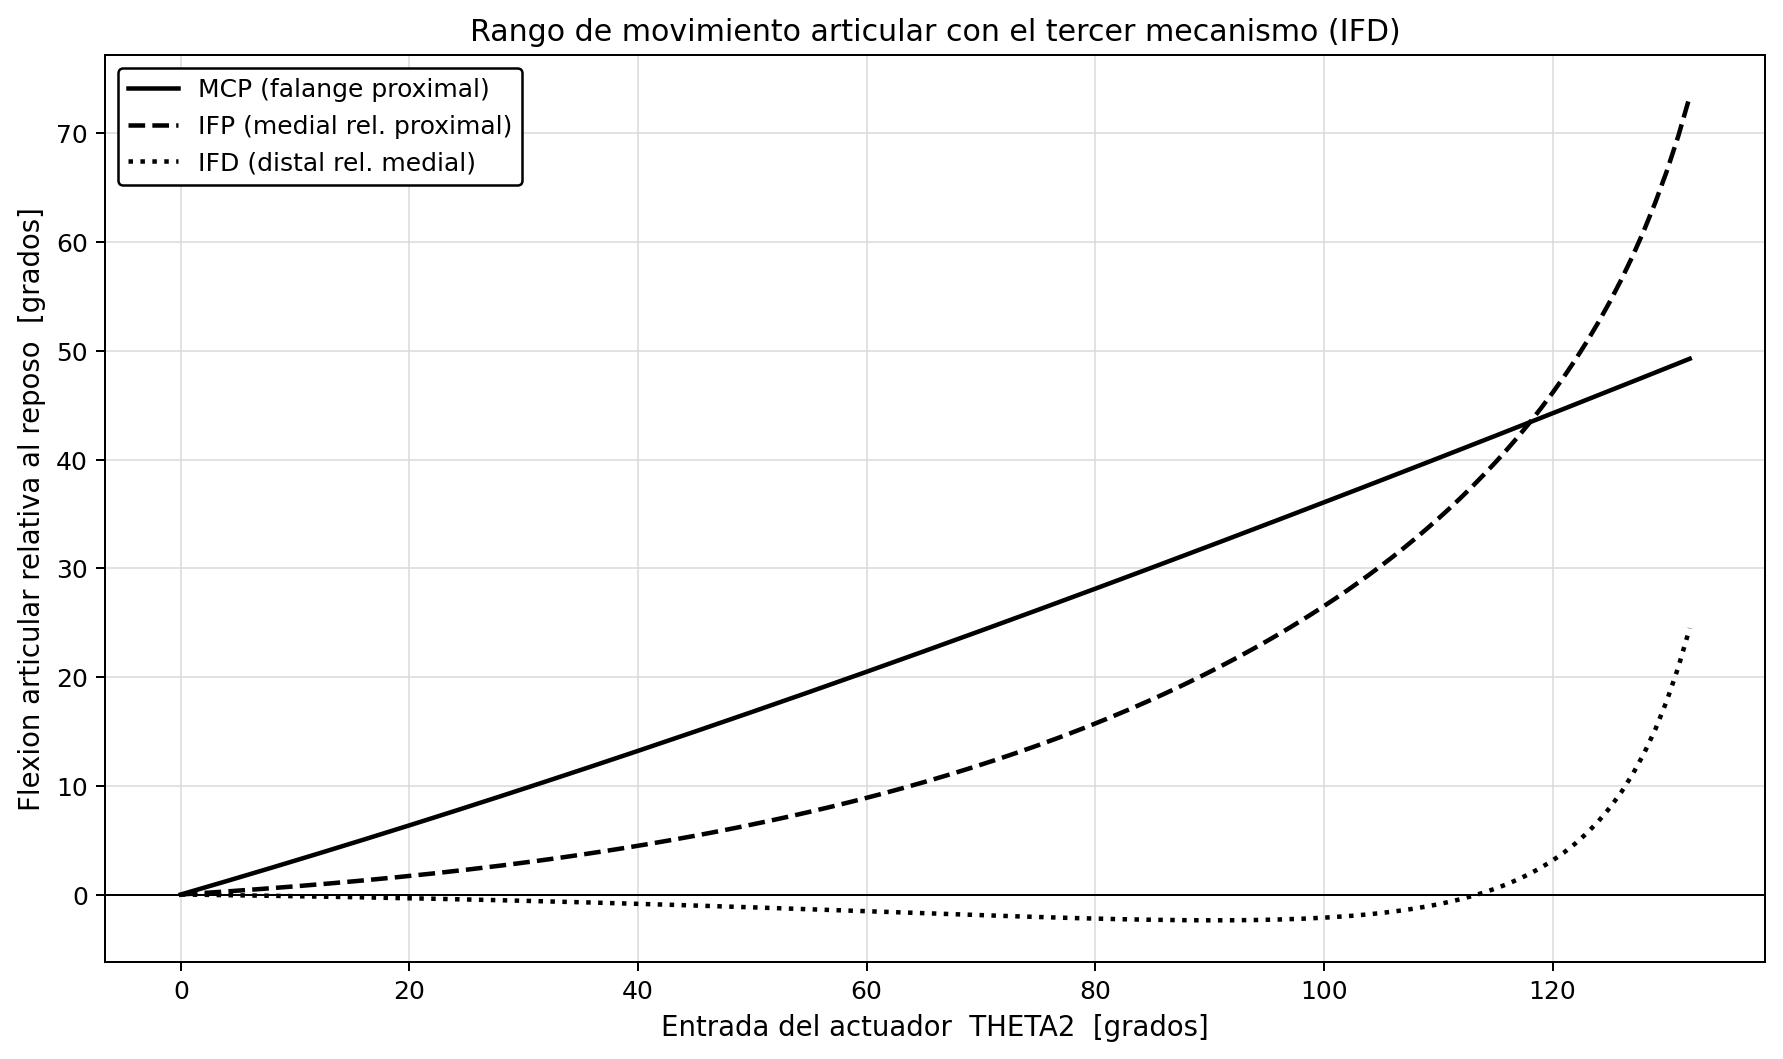
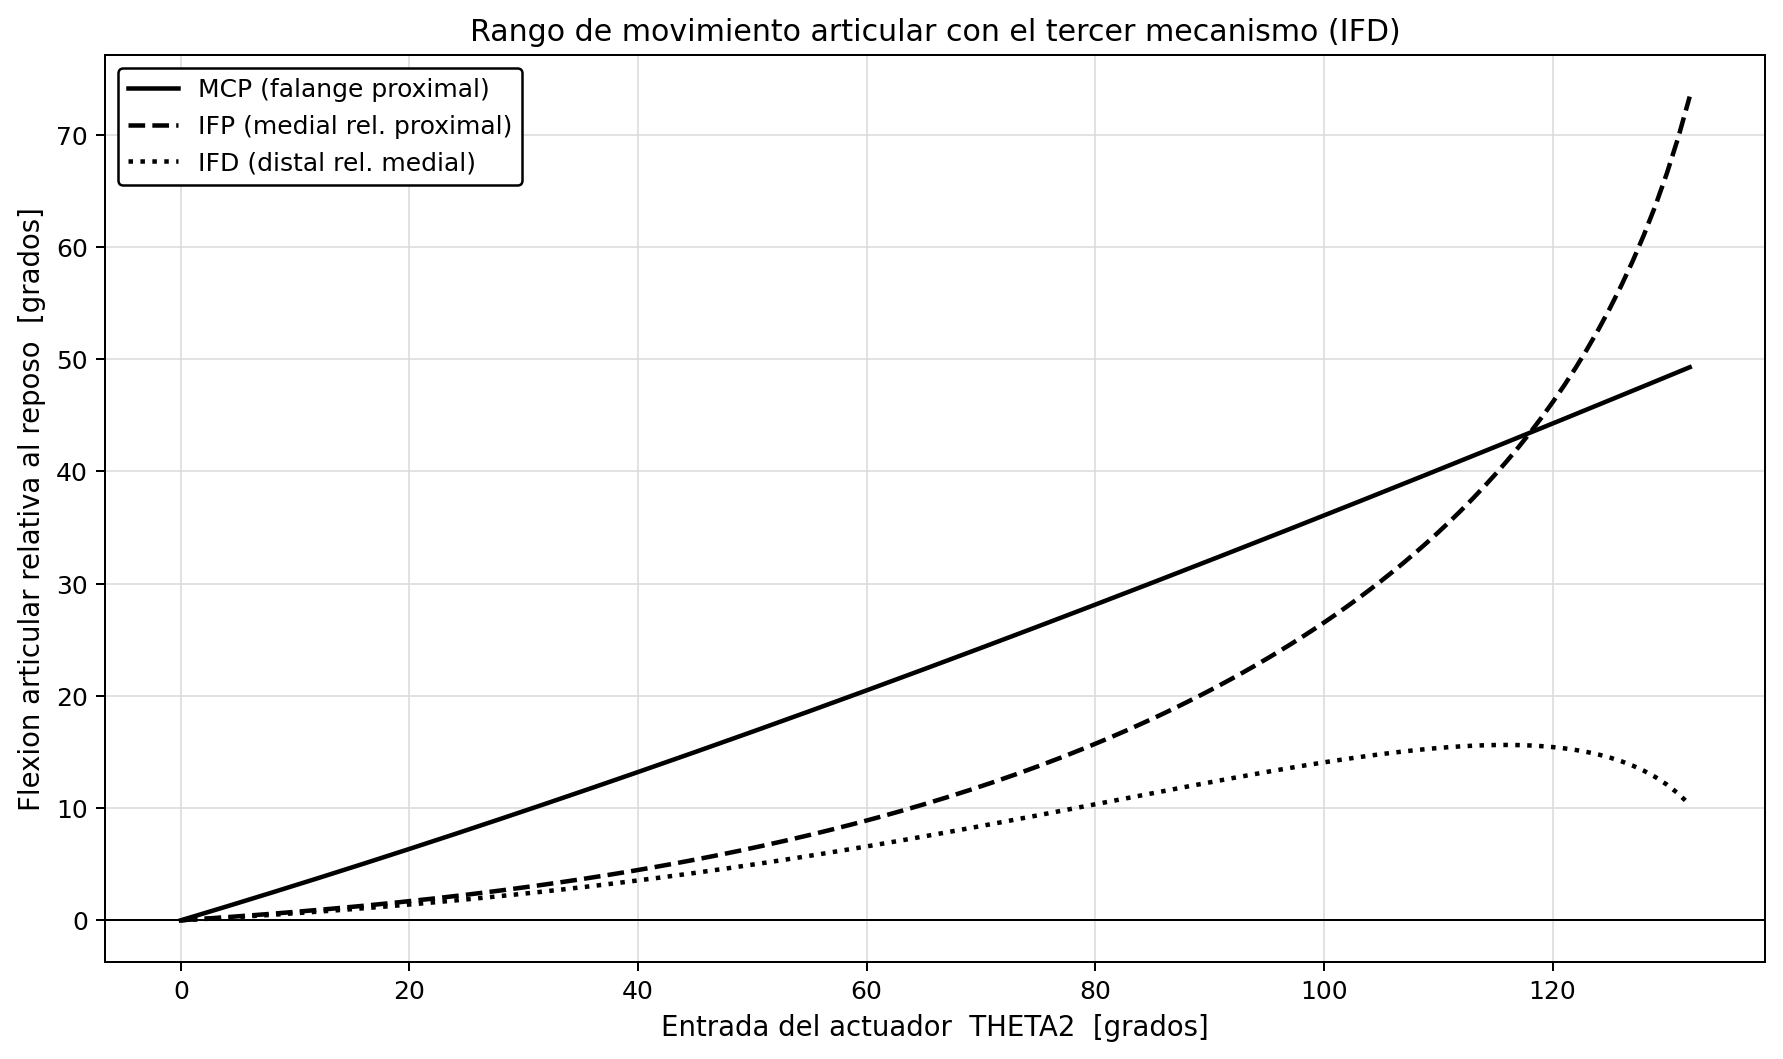
Tercer mecanismo IFD: montaje DORSAL (no palmar) para no chocar con la palma
- back3=-12, up3=2, rama D3=sols[1]: todo el hardware (Pa, L9, L10, D3)
  va por el dorso, mismo lado que mecanismos 1 y 2
- La DIP sigue FLEXIONANDO hacia la palma (0deg->15.62deg gradual, monotona)
- Holgura dorsal con huesos verificada; sin colision con la palma al cerrar
- Sincronizado .m de validacion con la config dorsal del modulo Python
- 133/133 poses ensamblan; salto maximo IFD 0.98deg (movimiento suave)

diff --git a/cinematica_tercer_mecanismo.py b/cinematica_tercer_mecanismo.py
@@ -49,17 +49,22 @@ THETAauxfm = 51.39
 THETAauxfd = 38.78
 reng = 2
 
-# --- Parametros del tercer mecanismo de 4 barras ---
+# --- Parametros del tercer mecanismo de 4 barras (montado SOBRE el dedo) ---
 # El 4 barras usa la PROPIA falange medial como manivela de entrada y un punto
-# fijo Pa (soporte S3) sobre la falange proximal como pivote del acoplador.
-# Para que la flexion de la IFP induzca FLEXION (hacia abajo) de la IFD -como un
-# dedo real-, el acoplador corre por el lado PALMAR (igual que el tendon flexor
-# profundo). Pa se define respecto a IFP con:
-#   back3 : retroceso a lo largo de la falange proximal (hacia MCF), mm
-#   up3   : separacion PALMAR (perpendicular a la falange proximal), mm
-# Valores calibrados para movimiento DIP gradual y de flexion en todo el rango.
-back3 = 2.0
-up3 = 12.0
+# fijo Pa (soporte S3) RIGIDO a la falange proximal como pivote del acoplador.
+# TODO el mecanismo (Pa, acoplador L9, balancin L10, punto D3) va por el lado
+# DORSAL del dedo -el mismo lado que el resto del exoesqueleto- para NO chocar
+# con la palma de la mano al cerrar el puno. Aun asi, la geometria del 4 barras
+# hace que al flexionar la IFP la falange distal FLEXIONE (se curva hacia la
+# palma) de forma GRADUAL, como un dedo real.
+# Pa se define respecto a IFP con:
+#   back3 : desplazamiento a lo largo de la falange proximal. NEGATIVO = el
+#           soporte dorsal se extiende HACIA ADELANTE, pasando la IFP (mm).
+#   up3   : standoff DORSAL (perpendicular a la falange proximal), perfil bajo (mm).
+# Valores calibrados para flexion DIP gradual (~15 deg pico) manteniendo holgura
+# dorsal con los huesos (Pa-falange medial ~5 mm) y sin colision con la palma.
+back3 = -12.0
+up3 = 2.0
 
 # Asignacion a variables de las ecuaciones (igual que el .m)
 r4 = Link1
@@ -245,12 +250,13 @@ def tercer_mecanismo(estado, gamma_bracket=None, dorsal_sign=None):
       - Tierra:     Pa -> IFP  (bracket S3 rigido sobre la falange PROXIMAL)
       - Manivela:   IFP -> IFD (la PROPIA falange medial, fm = 26 mm)
       - Balancin:   IFD -> D3  (Link10 = 35 mm), rigido con la falange distal
-      - Acoplador:  D3 -> Pa   (Link9 = 25 mm), por el lado PALMAR
+      - Acoplador:  D3 -> Pa   (Link9 = 25 mm), por el lado DORSAL
 
-    Como la falange medial gira respecto a la proximal al flexionar la IFP, el
-    balancin gira y la falange distal FLEXIONA (se curva hacia abajo) de forma
-    GRADUAL, igual que un dedo real. El acoplador corre por el lado palmar (como
-    el tendon flexor profundo); de ir por el dorso, la IFD se extenderia.
+    TODO el mecanismo va montado por el lado DORSAL del dedo (el mismo lado que
+    el resto del exoesqueleto), para NO chocar con la palma al cerrar la mano.
+    Aun asi, la geometria del 4 barras hace que al flexionar la IFP la falange
+    distal FLEXIONE (se curva hacia la palma) de forma GRADUAL, igual que un
+    dedo real.
     `gamma_bracket` calibra el offset del soporte para conservar la flexion
     natural inicial; `dorsal_sign` fija de forma CONSISTENTE el lado del montaje.
     """
@@ -262,27 +268,28 @@ def tercer_mecanismo(estado, gamma_bracket=None, dorsal_sign=None):
     prox_dir = np.array([np.cos(thetafp), np.sin(thetafp)])
     prox_norm = np.array([-prox_dir[1], prox_dir[0]])
 
-    # Signo dorsal: se decide UNA sola vez (calibracion) usando el lado de P3,
-    # y luego se mantiene fijo.
+    # Signo dorsal: se decide UNA sola vez (calibracion) usando el lado de P3
+    # (el resto del exoesqueleto va por el dorso) y luego se mantiene fijo.
     if dorsal_sign is None:
         dorsal_sign = 1.0 if np.dot(estado["P3"] - IFP, prox_norm) >= 0 else -1.0
 
-    # El acoplador del tercer mecanismo corre por el lado PALMAR (opuesto al
-    # dorso), igual que el tendon flexor profundo, de modo que al flexionar la
-    # IFP la falange distal FLEXIONA (se curva hacia abajo) en vez de extenderse.
-    palmar_norm = -dorsal_sign * prox_norm
+    # TODO el tercer mecanismo va por el lado DORSAL (mismo lado que P3 y el
+    # resto del exoesqueleto), para NO chocar con la palma al cerrar la mano.
+    dorsal_norm = dorsal_sign * prox_norm
 
-    # Anclaje de la manivela/acoplador FIJO a la falange proximal (soporte S3):
-    # retroceso back3 hacia MCF + separacion palmar up3.
-    Pa = IFP - back3 * prox_dir + up3 * palmar_norm
+    # Anclaje del acoplador FIJO a la falange proximal mediante el soporte S3.
+    # back3 negativo => el soporte se extiende hacia ADELANTE pasando la IFP;
+    # up3 => standoff DORSAL de perfil bajo.
+    Pa = IFP - back3 * prox_dir + up3 * dorsal_norm
 
     sols = _circle_intersections(Pa, Link9, IFD, Link10)
     if sols is None:
         return None
 
-    # Seleccion deterministica y continua de la rama (lado +perp de la recta
-    # Pa->IFD). Esta rama produce el movimiento de FLEXION distal gradual.
-    D3 = sols[0]
+    # Rama del 4 barras (interseccion -perp). Con el anclaje dorsal adelantado,
+    # esta rama coloca D3 por el DORSO de la falange distal y produce FLEXION
+    # distal GRADUAL al cerrarse el dedo.
+    D3 = sols[1]
 
     ang_rocker = np.arctan2(D3[1] - IFD[1], D3[0] - IFD[0])  # rad
 

diff --git a/validacion_cinematica_DIP.m b/validacion_cinematica_DIP.m
@@ -190,15 +190,20 @@ P.THETAauxfm = 51.39;
 P.THETAauxfd = 38.78;
 P.reng = 2;
 
-% --- Tercer mecanismo (montado SOBRE el dedo) ---
+% --- Tercer mecanismo (montado SOBRE el dedo, lado DORSAL) ---
 % Anclaje Pa de la manivela/acoplador, fijo a la falange proximal (soporte S3).
-% El acoplador corre por el lado PALMAR (como el tendon flexor profundo) para
-% que la flexion de la IFP induzca FLEXION (hacia abajo) de la IFD:
-%   back3 : retroceso a lo largo de la falange proximal (hacia MCF), mm
-%   up3   : separacion PALMAR (perpendicular a la falange proximal), mm
-% Valores calibrados para movimiento DIP gradual y de flexion en todo el rango.
-P.back3 = 2.0;
-P.up3   = 12.0;
+% TODO el mecanismo (Pa, acoplador L9, balancin L10, D3) va por el lado DORSAL
+% del dedo -el mismo lado que el resto del exoesqueleto- para NO chocar con la
+% palma al cerrar el puno. Aun asi, la geometria del 4 barras hace que al
+% flexionar la IFP la falange distal FLEXIONE (se curva hacia la palma) de
+% forma GRADUAL, como un dedo real.
+%   back3 : desplazamiento a lo largo de la falange proximal; NEGATIVO = el
+%           soporte dorsal se extiende HACIA ADELANTE, pasando la IFP (mm)
+%   up3   : standoff DORSAL (perpendicular a la falange proximal), perfil bajo (mm)
+% Valores calibrados para flexion DIP gradual (~15 deg pico) manteniendo holgura
+% dorsal con los huesos y sin colision con la palma.
+P.back3 = -12.0;
+P.up3   = 2.0;
 
 % Variables derivadas (igual que en el .m original)
 P.r4 = P.Link1;
@@ -357,15 +362,16 @@ end
 
 
 function tm = tercer_mecanismo(est, P, gamma_bracket, dorsal_sign)
-% Resuelve el tercer mecanismo de 4 barras (montado SOBRE el dedo):
+% Resuelve el tercer mecanismo de 4 barras (montado SOBRE el dedo, DORSAL):
 %   Tierra:    Pa -> IFP  (bracket S3 rigido sobre la falange PROXIMAL)
 %   Manivela:  IFP -> IFD (la PROPIA falange medial, fm = 26 mm)
 %   Balancin:  IFD -> D3   (Link10 = 35 mm), rigido con la falange distal
-%   Acoplador: D3  -> Pa   (Link9 = 25 mm), por el lado PALMAR
+%   Acoplador: D3  -> Pa   (Link9 = 25 mm), por el lado DORSAL
 %
-% El acoplador corre por el lado PALMAR (igual que el tendon flexor profundo),
-% de modo que al flexionar la IFP la falange distal FLEXIONA (se curva hacia
-% abajo) de forma GRADUAL, como un dedo real; de ir por el dorso se extenderia.
+% TODO el mecanismo va por el lado DORSAL del dedo (el mismo lado que el resto
+% del exoesqueleto), para NO chocar con la palma al cerrar la mano. Aun asi, la
+% geometria del 4 barras hace que al flexionar la IFP la falange distal
+% FLEXIONE (se curva hacia la palma) de forma GRADUAL, como un dedo real.
 %
 % Si gamma_bracket / dorsal_sign vienen vacios, se calibran en esta pose y se
 % devuelven para reutilizarlos en TODO el recorrido (evita saltos por re-elegir
@@ -391,23 +397,24 @@ if isempty(dorsal_sign)
     tm.dorsal_sign = dorsal_sign;
 end
 
-% El acoplador corre por el lado PALMAR (opuesto al dorso), igual que el
-% tendon flexor profundo, para inducir FLEXION (hacia abajo) de la IFD.
-palmar_norm = -dorsal_sign * prox_norm;
+% TODO el tercer mecanismo va por el lado DORSAL (mismo lado que P3 y el resto
+% del exoesqueleto), para NO chocar con la palma al cerrar la mano.
+dorsal_norm = dorsal_sign * prox_norm;
 
-% Anclaje de la manivela/acoplador, fijo a la falange proximal (soporte S3):
-% retroceso back3 hacia MCF + separacion palmar up3.
-Pa = IFP - P.back3 * prox_dir + P.up3 * palmar_norm;
+% Anclaje del acoplador fijo a la falange proximal (soporte S3):
+% back3 negativo => el soporte se extiende HACIA ADELANTE pasando la IFP;
+% up3 => standoff DORSAL de perfil bajo.
+Pa = IFP - P.back3 * prox_dir + P.up3 * dorsal_norm;
 
 [solA, solB, okFlag] = circle_intersections(Pa, P.Link9, IFD, P.Link10);
 if ~okFlag
     return;
 end
 
-% Seleccion deterministica y continua de la rama (lado +perp de la recta
-% Pa->IFD), equivalente a sols(1) en el modulo Python. Produce el movimiento
-% de FLEXION distal gradual.
-D3 = solA;
+% Rama del 4 barras (interseccion -perp, equivalente a sols(2)/solB en el
+% modulo Python). Con el anclaje dorsal adelantado, coloca D3 por el DORSO de
+% la falange distal y produce FLEXION distal GRADUAL al cerrarse el dedo.
+D3 = solB;
 
 ang_rocker = atan2(D3(2) - IFD(2), D3(1) - IFD(1));   % rad
 

diff --git a/generar_diagrama_completo.py b/generar_diagrama_completo.py
@@ -159,19 +159,21 @@ lbl_link(P2, P3, r"$L_8$", dy=2)
 lbl_link(IFP, P3, r"$c_2$", dx=-4)
 
 # --- TERCER MECANISMO DE 4 BARRAS (IFD / DIP) ---
-# Cuadrilatero (montado SOBRE el dedo):
+# Cuadrilatero (montado SOBRE el dedo, lado DORSAL):
 #   - Barra de tierra : P_a -> IFP  (bracket S3 rigido a la falange proximal)
 #   - Manivela/entrada: IFP -> IFD  (la PROPIA falange medial, F_m)
 #   - Balancin        : IFD -> D3   (L10), rigido con la falange distal
 #   - Acoplador       : D3  -> P_a  (L9)
-# Como la falange medial gira respecto a la proximal al flexionar la IFP, el
-# balancin (L10) gira y la falange distal flexiona de forma GRADUAL.
+# TODO el mecanismo va por el DORSO (mismo lado que el resto del exoesqueleto)
+# para NO chocar con la palma. Aun asi, al flexionar la IFP la falange distal
+# FLEXIONA de forma GRADUAL (se curva hacia la palma).
 #
-# Bracket rigido S3 que fija P_a a la falange proximal (segundo punto de
-# anclaje Q sobre el hueso, para que P_a NO quede "flotando").
+# Bracket rigido S3 que fija P_a a la falange proximal. Como P_a se adelanta
+# pasando la IFP, el bracket se ancla a un punto Q sobre la falange proximal
+# (por detras de la IFP) para que P_a NO quede "flotando".
 thetafp_d = np.deg2rad(est["THETAfp"])
 prox_dir = np.array([np.cos(thetafp_d), np.sin(thetafp_d)])
-Q = IFP - (K.back3 + 16.0) * prox_dir              # 2do anclaje sobre F_p
+Q = IFP - 16.0 * prox_dir                          # anclaje sobre F_p (tras IFP)
 ax.add_patch(plt.Polygon([Q, IFP, Pa], closed=True, facecolor="0.88",
                          edgecolor="black", linewidth=1.0, zorder=2))
 link(Q, Pa, lw=1.2)                                # strut del bracket S3